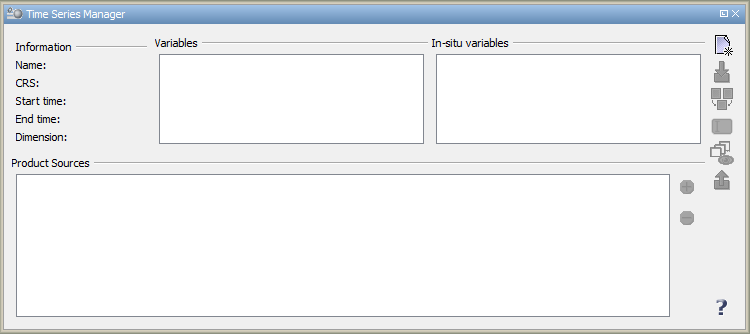
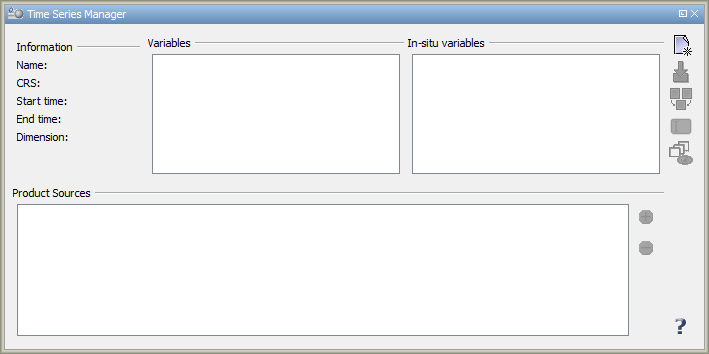
edit help

Changed region(s): [[0.0, 0.0, 0.9929, 0.988], [0.9309, 0.8982, 0.9929, 0.9281], [0.5585, 0.4192, 0.5896, 0.4491]]

diff --git a/glob-help/src/main/resources/doc/help/globbox/TimeSeriesManager.html b/glob-help/src/main/resources/doc/help/globbox/TimeSeriesManager.html
@@ -275,11 +275,6 @@
     the VISAT Product Scene View.
 </p>
 
-<p>
-    Finally, the using the <img src="../images/export.gif" alt="export-button">-button the time series may be saved
-    to disk in the BEAM-DIMAP format.
-</p>
-
 <hr/>
 
 <p><i>Copyright &copy; 2012 by Brockmann Consult (beam-issues@brockmann-consult.de). All rights reserved.</i></p>
